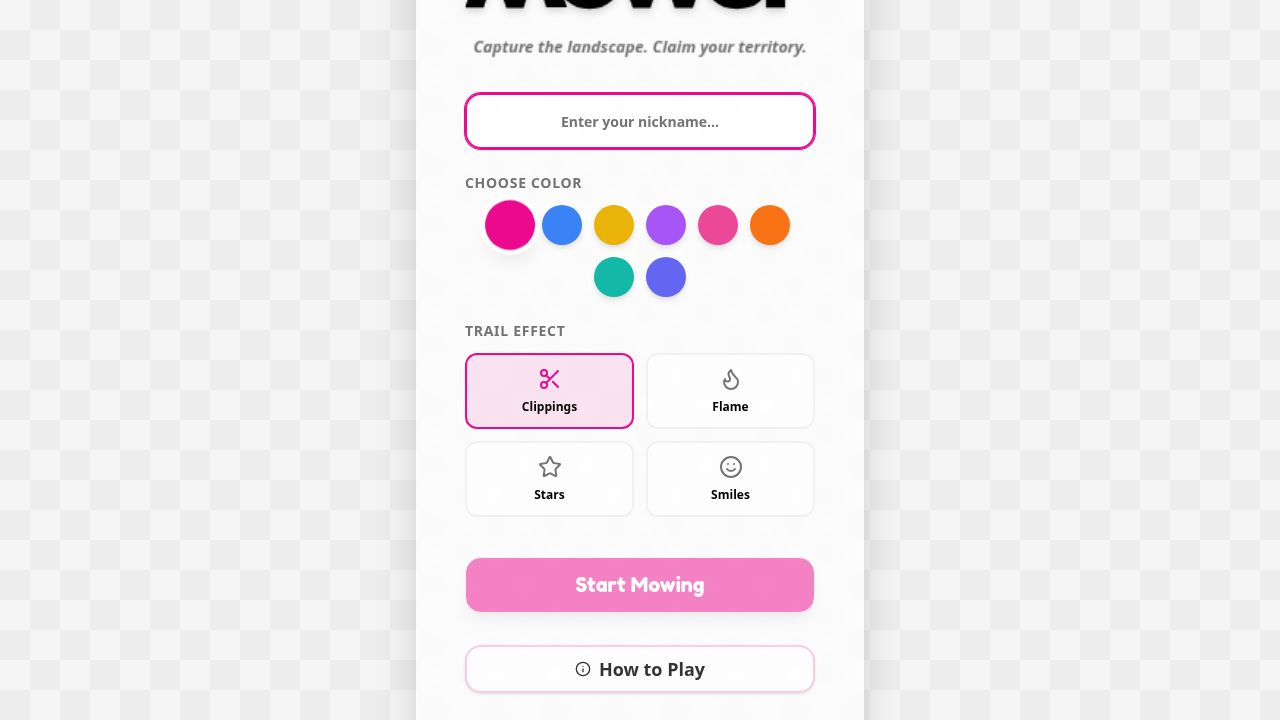
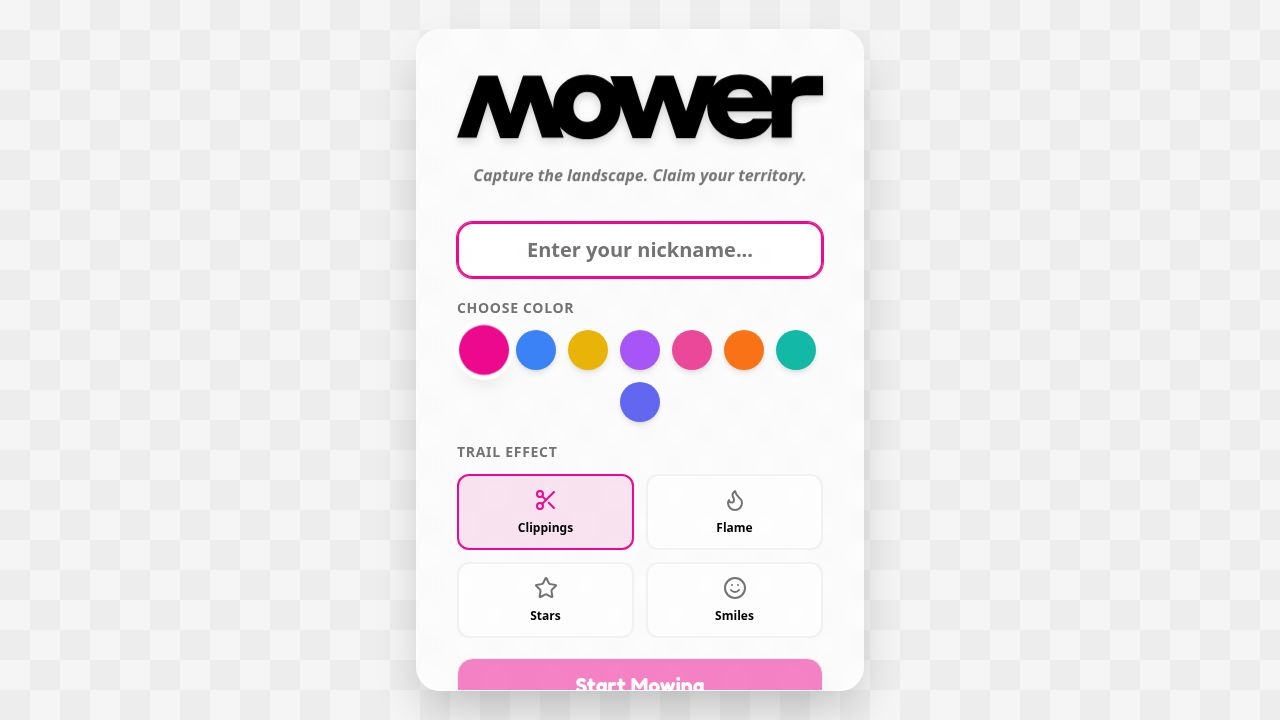
Adjust main screen layout and leaderboard display for better device compatibility
Refine CSS and component styling in `Home.tsx` to improve responsiveness and visual presentation on smaller screens, including adjustments to the leaderboard panel and player list elements.

Replit-Commit-Author: Agent
Replit-Commit-Session-Id: 541bffd9-f5df-4c79-ba32-0392d8e8376b
Replit-Commit-Checkpoint-Type: full_checkpoint
Replit-Commit-Event-Id: caf2c7f9-b52c-4a99-bbd8-2767bc8f33c8
Replit-Commit-Screenshot-Url: https://storage.googleapis.com/screenshot-production-us-central1/609c4234-2676-48e4-a843-a47fdd723837/541bffd9-f5df-4c79-ba32-0392d8e8376b/PXNC2PD
Replit-Helium-Checkpoint-Created: true

Changed region(s): [[0.3125, 0.0611, 0.6875, 1.0], [0.3438, 0.0, 0.625, 0.0306]]

diff --git a/client/src/pages/Home.tsx b/client/src/pages/Home.tsx
@@ -14,7 +14,6 @@ export default function Home() {
   const [selectedColor, setSelectedColor] = useState(PLAYER_COLORS[0]);
   const [trailType, setTrailType] = useState<"grass" | "flame" | "star" | "smile">("grass");
 
-  // Simple state management for the mockup
   const startGame = (e: React.FormEvent) => {
     e.preventDefault();
     if (!playerName.trim()) return;
@@ -31,7 +30,6 @@ export default function Home() {
   return (
     <div className="w-screen h-screen overflow-hidden bg-grass-pattern relative flex items-center justify-center font-sans">
       
-      {/* GAME CANVAS */}
       {gameState === "playing" && (
         <GameCanvas 
           playerName={playerName} 
@@ -44,31 +42,30 @@ export default function Home() {
         />
       )}
 
-      {/* UI OVERLAY - LEADERBOARD */}
       {gameState === "playing" && (
         <div 
-          className="absolute top-20 md:top-4 right-4 glass-panel rounded-xl p-4 w-40 md:w-48 shadow-lg z-10 max-h-[25vh] md:max-h-[60vh] flex flex-col pointer-events-auto"
+          className="absolute top-16 md:top-4 right-2 md:right-4 glass-panel rounded-xl p-2 md:p-4 w-36 md:w-48 shadow-lg z-10 max-h-[20vh] md:max-h-[60vh] flex flex-col pointer-events-auto"
           style={{ touchAction: 'pan-y' }}
-          onPointerDown={(e) => e.stopPropagation()} // Stop game canvas from stealing touch events
+          onPointerDown={(e) => e.stopPropagation()}
         >
-          <h3 className="font-display text-base md:text-lg text-primary-foreground bg-primary -mt-4 -mx-4 mb-3 p-2 rounded-t-xl text-center shadow-sm shrink-0">
+          <h3 className="font-display text-sm md:text-lg text-primary-foreground bg-primary -mt-2 md:-mt-4 -mx-2 md:-mx-4 mb-2 md:mb-3 p-1.5 md:p-2 rounded-t-xl text-center shadow-sm shrink-0">
             Top Mowers
           </h3>
           <div 
-            className="overflow-y-auto overflow-x-hidden pr-2 custom-scrollbar touch-pan-y h-full" 
+            className="overflow-y-auto overflow-x-hidden pr-1 custom-scrollbar touch-pan-y h-full" 
             style={{ overscrollBehavior: 'contain' }}
           >
-            <ul className="space-y-2 pb-2">
+            <ul className="space-y-1 md:space-y-2 pb-1">
               {leaderboard.map((player, idx) => (
-                <li key={idx} className="flex justify-between items-center text-sm font-bold relative">
-                  <span className="flex items-center gap-2 truncate">
-                    <span className="w-4 h-4 rounded-full border-2 border-white/50 shadow-sm shrink-0" style={{ backgroundColor: player.color }}></span>
-                    <span className="truncate max-w-[80px]">{player.name}</span>
-                    {idx === 0 && <Crown className="w-4 h-4 ml-1 text-[#EC098D] fill-[#EC098D] drop-shadow-sm" />}
-                    {idx === 1 && <Crown className="w-4 h-4 ml-1 text-[#C0C0C0] fill-[#C0C0C0] drop-shadow-sm" />}
-                    {idx === 2 && <Crown className="w-4 h-4 ml-1 text-[#CD7F32] fill-[#CD7F32] drop-shadow-sm" />}
+                <li key={idx} className="flex justify-between items-center text-xs md:text-sm font-bold relative">
+                  <span className="flex items-center gap-1.5 truncate">
+                    <span className="w-3 h-3 md:w-4 md:h-4 rounded-full border-2 border-white/50 shadow-sm shrink-0" style={{ backgroundColor: player.color }}></span>
+                    <span className="truncate max-w-[60px] md:max-w-[80px]">{player.name}</span>
+                    {idx === 0 && <Crown className="w-3 h-3 md:w-4 md:h-4 ml-0.5 text-[#EC098D] fill-[#EC098D] drop-shadow-sm" />}
+                    {idx === 1 && <Crown className="w-3 h-3 md:w-4 md:h-4 ml-0.5 text-[#C0C0C0] fill-[#C0C0C0] drop-shadow-sm" />}
+                    {idx === 2 && <Crown className="w-3 h-3 md:w-4 md:h-4 ml-0.5 text-[#CD7F32] fill-[#CD7F32] drop-shadow-sm" />}
                   </span>
-                  <span className="text-foreground/80 shrink-0">{player.score.toFixed(1)}%</span>
+                  <span className="text-foreground/80 shrink-0 text-xs">{player.score.toFixed(1)}%</span>
                 </li>
               ))}
             </ul>
@@ -76,27 +73,26 @@ export default function Home() {
         </div>
       )}
 
-      {/* UI OVERLAY - SCORE AND FIREBALLS */}
       {gameState === "playing" && (
-        <div className="absolute top-4 left-4 flex flex-col gap-2 pointer-events-none">
-            <div className="glass-panel rounded-full px-6 py-2 shadow-lg flex items-center gap-4">
-              <img src="/logo.svg" alt="Logo" className="h-6 opacity-80" />
-              <div className="h-4 w-px bg-primary/20"></div>
-              <div className="text-2xl font-display text-primary flex items-center gap-2">
+        <div className="absolute top-2 md:top-4 left-2 md:left-4 flex flex-col gap-1.5 md:gap-2 pointer-events-none">
+            <div className="glass-panel rounded-full px-3 md:px-6 py-1.5 md:py-2 shadow-lg flex items-center gap-2 md:gap-4">
+              <img src="/logo.svg" alt="Logo" className="h-4 md:h-6 opacity-80" />
+              <div className="h-3 md:h-4 w-px bg-primary/20"></div>
+              <div className="text-lg md:text-2xl font-display text-primary flex items-center gap-1 md:gap-2">
                 <span>{score.toFixed(1)}%</span>
-                <span className="text-sm font-sans text-muted-foreground uppercase tracking-widest hidden md:inline">Captured</span>
+                <span className="text-xs md:text-sm font-sans text-muted-foreground uppercase tracking-widest hidden md:inline">Captured</span>
               </div>
             </div>
             
             {fireballs > 0 && (
-                <div className="glass-panel rounded-full px-6 py-2 shadow-lg flex items-center gap-3 animate-in slide-in-from-left-4 fade-in">
-                    <div className="relative flex items-center justify-center w-8 h-8 rounded-full bg-orange-100 shadow-inner">
-                        <Flame className="w-5 h-5 text-orange-500 animate-pulse" />
-                        <span className="absolute -top-1 -right-1 bg-red-500 text-white text-[10px] font-bold w-4 h-4 rounded-full flex items-center justify-center border border-white">
+                <div className="glass-panel rounded-full px-3 md:px-6 py-1.5 md:py-2 shadow-lg flex items-center gap-2 md:gap-3 animate-in slide-in-from-left-4 fade-in">
+                    <div className="relative flex items-center justify-center w-6 h-6 md:w-8 md:h-8 rounded-full bg-orange-100 shadow-inner">
+                        <Flame className="w-4 h-4 md:w-5 md:h-5 text-orange-500 animate-pulse" />
+                        <span className="absolute -top-1 -right-1 bg-red-500 text-white text-[8px] md:text-[10px] font-bold w-3.5 h-3.5 md:w-4 md:h-4 rounded-full flex items-center justify-center border border-white">
                             {fireballs}
                         </span>
                     </div>
-                    <span className="text-sm font-bold text-foreground">
+                    <span className="text-xs md:text-sm font-bold text-foreground hidden md:inline">
                         Press <kbd className="bg-white/50 px-1.5 py-0.5 rounded border border-border/50 mx-1 shadow-sm text-xs font-mono">SPACE</kbd> to shoot!
                     </span>
                 </div>
@@ -104,46 +100,44 @@ export default function Home() {
         </div>
       )}
 
-      {/* MOBILE CONTROLS HINT */}
       {gameState === "playing" && (
-        <div className="absolute bottom-8 left-0 right-0 flex justify-center pointer-events-none md:hidden opacity-50">
-          <div className="glass-panel rounded-full px-6 py-3 flex items-center gap-3">
-            <Joystick className="w-6 h-6" />
-            <span className="font-bold">Swipe to steer</span>
+        <div className="absolute bottom-4 md:bottom-8 left-0 right-0 flex justify-center pointer-events-none md:hidden opacity-50">
+          <div className="glass-panel rounded-full px-4 py-2 flex items-center gap-2">
+            <Joystick className="w-5 h-5" />
+            <span className="font-bold text-sm">Swipe to steer</span>
           </div>
         </div>
       )}
 
-      {/* MAIN MENU */}
       {gameState === "menu" && (
-        <div className="z-10 glass-panel p-8 md:p-12 rounded-3xl shadow-2xl max-w-md w-full mx-4 border-2 border-white/50 animate-in fade-in zoom-in duration-500">
-          <div className="text-center mb-8 animate-float flex flex-col items-center">
-            <img src="/logo.svg" alt="Mower Logo" className="h-20 mb-4 drop-shadow-lg" />
-            <p className="text-muted-foreground font-bold italic">Capture the landscape. Claim your territory.</p>
+        <div className="z-10 glass-panel p-5 md:p-10 rounded-2xl md:rounded-3xl shadow-2xl max-w-sm md:max-w-md w-full mx-3 md:mx-4 border-2 border-white/50 animate-in fade-in zoom-in duration-500 max-h-[92vh] overflow-y-auto custom-scrollbar">
+          <div className="text-center mb-4 md:mb-8 animate-float flex flex-col items-center">
+            <img src="/logo.svg" alt="Mower Logo" className="h-12 md:h-20 mb-2 md:mb-4 drop-shadow-lg" />
+            <p className="text-muted-foreground font-bold italic text-sm md:text-base">Capture the landscape. Claim your territory.</p>
           </div>
 
-          <form onSubmit={startGame} className="space-y-6">
+          <form onSubmit={startGame} className="space-y-3 md:space-y-5">
             <div>
               <Input 
                 value={playerName}
                 onChange={(e) => setPlayerName(e.target.value)}
                 placeholder="Enter your nickname..."
-                className="h-14 text-center text-xl font-bold rounded-2xl border-2 border-primary/20 focus-visible:ring-primary focus-visible:border-primary shadow-inner bg-white/80"
+                className="h-10 md:h-14 text-center text-base md:text-xl font-bold rounded-xl md:rounded-2xl border-2 border-primary/20 focus-visible:ring-primary focus-visible:border-primary shadow-inner bg-white/80"
                 maxLength={12}
                 autoFocus
                 data-testid="input-player-name"
               />
             </div>
             
-            <div className="space-y-3">
-              <label className="text-sm font-bold text-muted-foreground uppercase tracking-wider block text-left">Choose Color</label>
-              <div className="flex flex-wrap gap-3 justify-center">
+            <div className="space-y-2 md:space-y-3">
+              <label className="text-xs md:text-sm font-bold text-muted-foreground uppercase tracking-wider block text-left">Choose Color</label>
+              <div className="flex flex-wrap gap-2 md:gap-3 justify-center">
                 {PLAYER_COLORS.map(color => (
                   <button
                     key={color}
                     type="button"
                     onClick={() => setSelectedColor(color)}
-                    className={`w-10 h-10 rounded-full transition-transform ${selectedColor === color ? 'scale-125 ring-4 ring-white shadow-lg' : 'hover:scale-110 shadow-md'}`}
+                    className={`w-8 h-8 md:w-10 md:h-10 rounded-full transition-transform ${selectedColor === color ? 'scale-125 ring-4 ring-white shadow-lg' : 'hover:scale-110 shadow-md'}`}
                     style={{ backgroundColor: color }}
                     aria-label={`Select color ${color}`}
                   />
@@ -151,47 +145,47 @@ export default function Home() {
               </div>
             </div>
 
-            <div className="space-y-3">
-              <label className="text-sm font-bold text-muted-foreground uppercase tracking-wider block text-left">Trail Effect</label>
-              <div className="grid grid-cols-2 gap-3">
+            <div className="space-y-2 md:space-y-3">
+              <label className="text-xs md:text-sm font-bold text-muted-foreground uppercase tracking-wider block text-left">Trail Effect</label>
+              <div className="grid grid-cols-4 md:grid-cols-2 gap-2 md:gap-3">
                 <button
                   type="button"
                   onClick={() => setTrailType("grass")}
-                  className={`flex flex-col items-center gap-2 p-3 rounded-xl border-2 transition-all ${trailType === 'grass' ? 'border-primary bg-primary/10' : 'border-border/50 bg-white/50 hover:bg-white/80'}`}
+                  className={`flex flex-col items-center gap-1 md:gap-2 p-2 md:p-3 rounded-xl border-2 transition-all ${trailType === 'grass' ? 'border-primary bg-primary/10' : 'border-border/50 bg-white/50 hover:bg-white/80'}`}
                 >
-                  <Scissors className={`w-6 h-6 ${trailType === 'grass' ? 'text-primary' : 'text-muted-foreground'}`} />
-                  <span className="font-bold text-xs">Clippings</span>
+                  <Scissors className={`w-5 h-5 md:w-6 md:h-6 ${trailType === 'grass' ? 'text-primary' : 'text-muted-foreground'}`} />
+                  <span className="font-bold text-[10px] md:text-xs">Clippings</span>
                 </button>
                 <button
                   type="button"
                   onClick={() => setTrailType("flame")}
-                  className={`flex flex-col items-center gap-2 p-3 rounded-xl border-2 transition-all ${trailType === 'flame' ? 'border-orange-500 bg-orange-500/10' : 'border-border/50 bg-white/50 hover:bg-white/80'}`}
+                  className={`flex flex-col items-center gap-1 md:gap-2 p-2 md:p-3 rounded-xl border-2 transition-all ${trailType === 'flame' ? 'border-orange-500 bg-orange-500/10' : 'border-border/50 bg-white/50 hover:bg-white/80'}`}
                 >
-                  <Flame className={`w-6 h-6 ${trailType === 'flame' ? 'text-orange-500' : 'text-muted-foreground'}`} />
-                  <span className="font-bold text-xs">Flame</span>
+                  <Flame className={`w-5 h-5 md:w-6 md:h-6 ${trailType === 'flame' ? 'text-orange-500' : 'text-muted-foreground'}`} />
+                  <span className="font-bold text-[10px] md:text-xs">Flame</span>
                 </button>
                 <button
                   type="button"
                   onClick={() => setTrailType("star")}
-                  className={`flex flex-col items-center gap-2 p-3 rounded-xl border-2 transition-all ${trailType === 'star' ? 'border-yellow-400 bg-yellow-400/10' : 'border-border/50 bg-white/50 hover:bg-white/80'}`}
+                  className={`flex flex-col items-center gap-1 md:gap-2 p-2 md:p-3 rounded-xl border-2 transition-all ${trailType === 'star' ? 'border-yellow-400 bg-yellow-400/10' : 'border-border/50 bg-white/50 hover:bg-white/80'}`}
                 >
-                  <Star className={`w-6 h-6 ${trailType === 'star' ? 'text-yellow-400' : 'text-muted-foreground'}`} />
-                  <span className="font-bold text-xs">Stars</span>
+                  <Star className={`w-5 h-5 md:w-6 md:h-6 ${trailType === 'star' ? 'text-yellow-400' : 'text-muted-foreground'}`} />
+                  <span className="font-bold text-[10px] md:text-xs">Stars</span>
                 </button>
                 <button
                   type="button"
                   onClick={() => setTrailType("smile")}
-                  className={`flex flex-col items-center gap-2 p-3 rounded-xl border-2 transition-all ${trailType === 'smile' ? 'border-blue-500 bg-blue-500/10' : 'border-border/50 bg-white/50 hover:bg-white/80'}`}
+                  className={`flex flex-col items-center gap-1 md:gap-2 p-2 md:p-3 rounded-xl border-2 transition-all ${trailType === 'smile' ? 'border-blue-500 bg-blue-500/10' : 'border-border/50 bg-white/50 hover:bg-white/80'}`}
                 >
-                  <Smile className={`w-6 h-6 ${trailType === 'smile' ? 'text-blue-500' : 'text-muted-foreground'}`} />
-                  <span className="font-bold text-xs">Smiles</span>
+                  <Smile className={`w-5 h-5 md:w-6 md:h-6 ${trailType === 'smile' ? 'text-blue-500' : 'text-muted-foreground'}`} />
+                  <span className="font-bold text-[10px] md:text-xs">Smiles</span>
                 </button>
               </div>
             </div>
 
             <Button 
               type="submit" 
-              className="w-full h-14 text-xl font-display rounded-2xl shadow-lg hover:shadow-xl transition-all hover:-translate-y-1 bg-primary hover:bg-primary/90 mt-4"
+              className="w-full h-11 md:h-14 text-lg md:text-xl font-display rounded-xl md:rounded-2xl shadow-lg hover:shadow-xl transition-all hover:-translate-y-1 bg-primary hover:bg-primary/90"
               disabled={!playerName.trim()}
               data-testid="button-play"
             >
@@ -202,101 +196,99 @@ export default function Home() {
               type="button" 
               variant="outline"
               onClick={() => setGameState("tutorial")}
-              className="w-full h-12 text-lg font-bold rounded-2xl shadow-sm hover:shadow-md transition-all border-2 border-primary/20 hover:border-primary/50 text-foreground/80 hover:text-foreground mt-2 flex items-center justify-center gap-2 bg-white/50"
+              className="w-full h-9 md:h-12 text-base md:text-lg font-bold rounded-xl md:rounded-2xl shadow-sm hover:shadow-md transition-all border-2 border-primary/20 hover:border-primary/50 text-foreground/80 hover:text-foreground flex items-center justify-center gap-2 bg-white/50"
               data-testid="button-tutorial"
             >
-              <Info className="w-5 h-5" />
+              <Info className="w-4 h-4 md:w-5 md:h-5" />
               How to Play
             </Button>
           </form>
 
-          <div className="mt-8 flex justify-center gap-4 text-sm text-muted-foreground/80 font-bold">
+          <div className="mt-4 md:mt-8 flex justify-center gap-3 md:gap-4 text-xs md:text-sm text-muted-foreground/80 font-bold">
             <div className="flex flex-col items-center">
-              <kbd className="bg-white/50 px-2 py-1 rounded shadow-sm border border-white mb-1">WASD / Arrows</kbd>
+              <kbd className="bg-white/50 px-1.5 md:px-2 py-0.5 md:py-1 rounded shadow-sm border border-white mb-1 text-xs">WASD / Arrows</kbd>
               <span>Desktop</span>
             </div>
             <div className="flex flex-col items-center">
-              <kbd className="bg-white/50 px-2 py-1 rounded shadow-sm border border-white mb-1">Swipe</kbd>
+              <kbd className="bg-white/50 px-1.5 md:px-2 py-0.5 md:py-1 rounded shadow-sm border border-white mb-1 text-xs">Swipe</kbd>
               <span>Mobile</span>
             </div>
           </div>
         </div>
       )}
 
-      {/* TUTORIAL SCREEN */}
       {gameState === "tutorial" && (
-        <div className="z-10 glass-panel p-6 md:p-10 rounded-3xl shadow-2xl max-w-lg w-full mx-4 border-2 border-white/50 animate-in fade-in zoom-in duration-300 max-h-[90vh] overflow-y-auto custom-scrollbar">
-          <div className="flex items-center mb-6 relative">
+        <div className="z-10 glass-panel p-4 md:p-10 rounded-2xl md:rounded-3xl shadow-2xl max-w-sm md:max-w-lg w-full mx-3 md:mx-4 border-2 border-white/50 animate-in fade-in zoom-in duration-300 max-h-[90vh] overflow-y-auto custom-scrollbar">
+          <div className="flex items-center mb-4 md:mb-6 relative">
             <button 
               onClick={() => setGameState("menu")}
-              className="absolute left-0 p-2 rounded-full hover:bg-black/5 transition-colors"
+              className="absolute left-0 p-1.5 md:p-2 rounded-full hover:bg-black/5 transition-colors"
               aria-label="Back to menu"
             >
-              <ArrowLeft className="w-6 h-6 text-foreground/70" />
+              <ArrowLeft className="w-5 h-5 md:w-6 md:h-6 text-foreground/70" />
             </button>
-            <h2 className="text-3xl font-display text-primary w-full text-center">How to Play</h2>
+            <h2 className="text-2xl md:text-3xl font-display text-primary w-full text-center">How to Play</h2>
           </div>
 
-          <div className="space-y-6 text-left">
-            <div className="flex gap-4 items-start bg-white/40 p-4 rounded-2xl border border-white">
-              <div className="bg-green-100 p-3 rounded-xl shrink-0">
-                <Joystick className="w-6 h-6 text-green-600" />
+          <div className="space-y-3 md:space-y-6 text-left">
+            <div className="flex gap-3 md:gap-4 items-start bg-white/40 p-3 md:p-4 rounded-xl md:rounded-2xl border border-white">
+              <div className="bg-green-100 p-2 md:p-3 rounded-lg md:rounded-xl shrink-0">
+                <Joystick className="w-5 h-5 md:w-6 md:h-6 text-green-600" />
               </div>
               <div>
-                <h3 className="font-bold text-lg mb-1">Steer Your Mower</h3>
-                <p className="text-muted-foreground text-sm">Use <kbd className="bg-white/80 px-1.5 py-0.5 rounded shadow-sm text-xs mx-1">WASD</kbd> or <kbd className="bg-white/80 px-1.5 py-0.5 rounded shadow-sm text-xs mx-1">Arrows</kbd> on desktop. On mobile, just <strong>swipe</strong> in the direction you want to go.</p>
+                <h3 className="font-bold text-base md:text-lg mb-0.5 md:mb-1">Steer Your Mower</h3>
+                <p className="text-muted-foreground text-xs md:text-sm">Use <kbd className="bg-white/80 px-1 py-0.5 rounded shadow-sm text-xs mx-0.5">WASD</kbd> or <kbd className="bg-white/80 px-1 py-0.5 rounded shadow-sm text-xs mx-0.5">Arrows</kbd> on desktop. On mobile, just <strong>swipe</strong>.</p>
               </div>
             </div>
 
-            <div className="flex gap-4 items-start bg-white/40 p-4 rounded-2xl border border-white">
-              <div className="bg-primary/10 p-3 rounded-xl shrink-0">
-                <Crosshair className="w-6 h-6 text-primary" />
+            <div className="flex gap-3 md:gap-4 items-start bg-white/40 p-3 md:p-4 rounded-xl md:rounded-2xl border border-white">
+              <div className="bg-primary/10 p-2 md:p-3 rounded-lg md:rounded-xl shrink-0">
+                <Crosshair className="w-5 h-5 md:w-6 md:h-6 text-primary" />
               </div>
               <div>
-                <h3 className="font-bold text-lg mb-1">Capture Territory</h3>
-                <p className="text-muted-foreground text-sm">Leave your base to draw a trail. Connect your trail back to your own territory to capture the enclosed area. The more you capture, the higher your score!</p>
+                <h3 className="font-bold text-base md:text-lg mb-0.5 md:mb-1">Capture Territory</h3>
+                <p className="text-muted-foreground text-xs md:text-sm">Leave your base to draw a trail. Connect back to your territory to capture the enclosed area.</p>
               </div>
             </div>
 
-            <div className="flex gap-4 items-start bg-white/40 p-4 rounded-2xl border border-white">
-              <div className="bg-orange-100 p-3 rounded-xl shrink-0">
-                <Flame className="w-6 h-6 text-orange-500" />
+            <div className="flex gap-3 md:gap-4 items-start bg-white/40 p-3 md:p-4 rounded-xl md:rounded-2xl border border-white">
+              <div className="bg-orange-100 p-2 md:p-3 rounded-lg md:rounded-xl shrink-0">
+                <Flame className="w-5 h-5 md:w-6 md:h-6 text-orange-500" />
               </div>
               <div>
-                <h3 className="font-bold text-lg mb-1">Shoot Fireballs</h3>
-                <p className="text-muted-foreground text-sm">Drive over fireballs to collect them. Press <kbd className="bg-white/80 px-1.5 py-0.5 rounded shadow-sm text-xs mx-1">SPACE</kbd> to shoot! Hits will burn away 5x5 chunks of enemy territory or eliminate players.</p>
+                <h3 className="font-bold text-base md:text-lg mb-0.5 md:mb-1">Shoot Fireballs</h3>
+                <p className="text-muted-foreground text-xs md:text-sm">Collect fireballs and press <kbd className="bg-white/80 px-1 py-0.5 rounded shadow-sm text-xs mx-0.5">SPACE</kbd> to shoot! Burns enemy territory or eliminates players.</p>
               </div>
             </div>
 
-            <div className="flex gap-4 items-start bg-white/40 p-4 rounded-2xl border border-white">
-              <div className="bg-red-100 p-3 rounded-xl shrink-0">
-                <Skull className="w-6 h-6 text-red-500" />
+            <div className="flex gap-3 md:gap-4 items-start bg-white/40 p-3 md:p-4 rounded-xl md:rounded-2xl border border-white">
+              <div className="bg-red-100 p-2 md:p-3 rounded-lg md:rounded-xl shrink-0">
+                <Skull className="w-5 h-5 md:w-6 md:h-6 text-red-500" />
               </div>
               <div>
-                <h3 className="font-bold text-lg mb-1">Don't Get Wasted</h3>
-                <p className="text-muted-foreground text-sm">You die if another player drives into your trail before you return to base, if you hit your own trail, or if you get hit directly by a fireball.</p>
+                <h3 className="font-bold text-base md:text-lg mb-0.5 md:mb-1">Don't Get Wasted</h3>
+                <p className="text-muted-foreground text-xs md:text-sm">You die if someone crosses your trail, you hit your own trail, or you get hit by a fireball.</p>
               </div>
             </div>
           </div>
 
           <Button 
             onClick={() => setGameState("menu")}
-            className="w-full h-14 text-xl font-display rounded-2xl shadow-lg hover:shadow-xl transition-all hover:-translate-y-1 bg-primary hover:bg-primary/90 mt-8"
+            className="w-full h-11 md:h-14 text-lg md:text-xl font-display rounded-xl md:rounded-2xl shadow-lg hover:shadow-xl transition-all hover:-translate-y-1 bg-primary hover:bg-primary/90 mt-4 md:mt-8"
           >
             Got it!
           </Button>
         </div>
       )}
 
-      {/* GAME OVER SCREEN */}
       {gameState === "gameover" && (
-        <div className="z-10 glass-panel p-8 md:p-12 rounded-3xl shadow-2xl max-w-md w-full mx-4 border-2 border-white/50 animate-in slide-in-from-bottom-8 duration-500 text-center">
-          <h2 className="text-5xl font-display text-destructive mb-2">Wasted!</h2>
-          <p className="text-xl text-foreground font-bold mb-6">You captured <span className="text-primary text-3xl font-display ml-1">{score.toFixed(1)}%</span></p>
+        <div className="z-10 glass-panel p-5 md:p-12 rounded-2xl md:rounded-3xl shadow-2xl max-w-sm md:max-w-md w-full mx-3 md:mx-4 border-2 border-white/50 animate-in slide-in-from-bottom-8 duration-500 text-center">
+          <h2 className="text-3xl md:text-5xl font-display text-destructive mb-1 md:mb-2">Wasted!</h2>
+          <p className="text-lg md:text-xl text-foreground font-bold mb-4 md:mb-6">You captured <span className="text-primary text-2xl md:text-3xl font-display ml-1">{score.toFixed(1)}%</span></p>
           
-          <div className="bg-white/50 rounded-2xl p-4 mb-8">
-            <h4 className="font-bold text-muted-foreground mb-2 uppercase text-xs tracking-wider">Instructions</h4>
-            <p className="text-sm font-semibold text-foreground/80">
+          <div className="bg-white/50 rounded-xl md:rounded-2xl p-3 md:p-4 mb-4 md:mb-8">
+            <h4 className="font-bold text-muted-foreground mb-1 md:mb-2 uppercase text-[10px] md:text-xs tracking-wider">Instructions</h4>
+            <p className="text-xs md:text-sm font-semibold text-foreground/80">
               Return to your base to capture enclosed territory. 
               If another player hits your trail before you return, you die!
             </p>
@@ -304,7 +296,7 @@ export default function Home() {
 
           <Button 
             onClick={() => setGameState("menu")}
-            className="w-full h-14 text-xl font-display rounded-2xl shadow-lg hover:shadow-xl transition-all hover:-translate-y-1 bg-primary hover:bg-primary/90"
+            className="w-full h-11 md:h-14 text-lg md:text-xl font-display rounded-xl md:rounded-2xl shadow-lg hover:shadow-xl transition-all hover:-translate-y-1 bg-primary hover:bg-primary/90"
             data-testid="button-play-again"
           >
             Play Again
